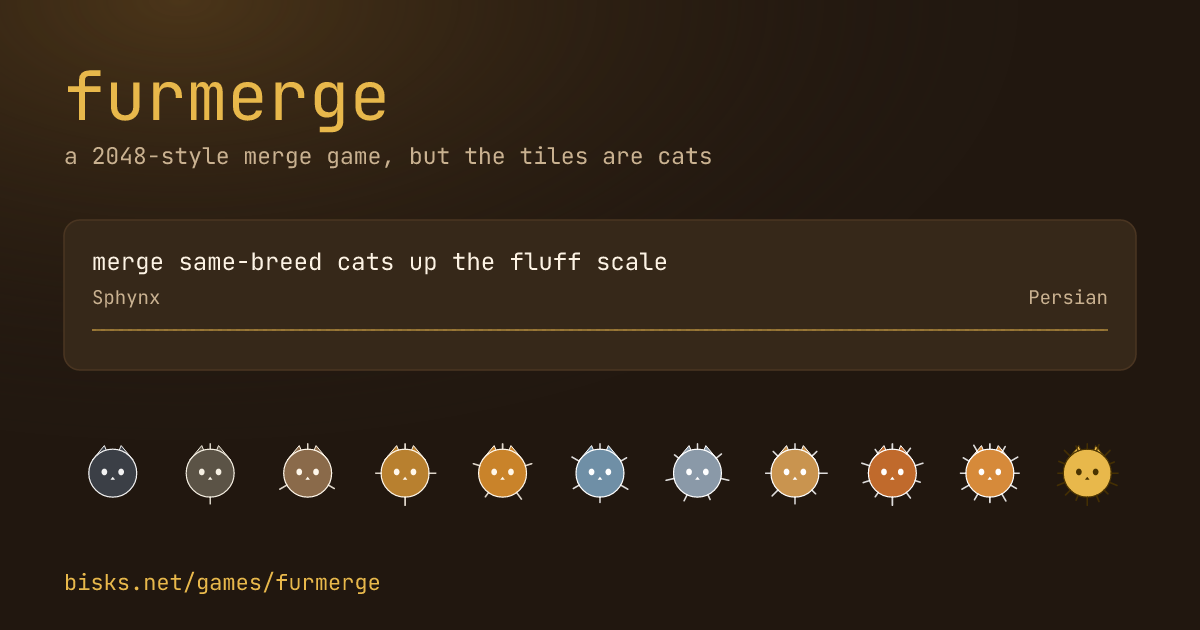
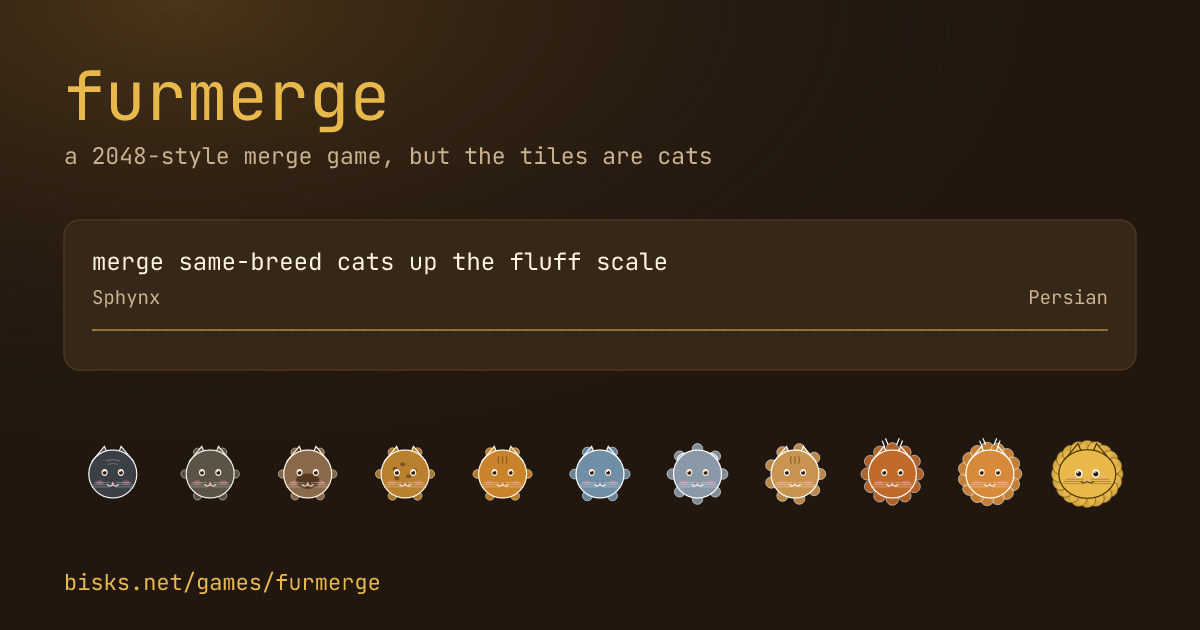
buildthis: games/furmerge (@brittanyellich.com)

diff --git a/sites/furmerge/public/game.js b/sites/furmerge/public/game.js
@@ -6,18 +6,21 @@ const MOUNT = "/games/furmerge";
 const SIZE = 4;
 
 // Least -> most fluffy. index 0 = value 2, index 10 = value 2048 (win tile).
+// earStyle: "point" | "fold" (Scottish Fold) | "lynx" (tufted ear tips)
+// pattern: null | "mask" (Siamese color points) | "spots" (Bengal rosettes)
+//          | "tabby" (forehead M stripes)
 const BREEDS = [
-  { name: "Sphynx", value: 2, bg: "#3b3f46", fg: "#f2f2f2", furTufts: 0, earFuzz: 0 },
-  { name: "Devon Rex", value: 4, bg: "#5b5346", fg: "#f5efe2", furTufts: 2, earFuzz: 0 },
-  { name: "Siamese", value: 8, bg: "#8a6a4a", fg: "#fff7ea", furTufts: 3, earFuzz: 1 },
-  { name: "Bengal", value: 16, bg: "#b8802f", fg: "#fff7ea", furTufts: 4, earFuzz: 1 },
-  { name: "Abyssinian", value: 32, bg: "#c9832a", fg: "#fff7ea", furTufts: 5, earFuzz: 2 },
-  { name: "British Shorthair", value: 64, bg: "#6f8fa6", fg: "#ffffff", furTufts: 6, earFuzz: 2 },
-  { name: "Scottish Fold", value: 128, bg: "#8a99a8", fg: "#ffffff", furTufts: 7, earFuzz: 3 },
-  { name: "American Shorthair", value: 256, bg: "#c9944f", fg: "#ffffff", furTufts: 8, earFuzz: 3 },
-  { name: "Maine Coon", value: 512, bg: "#c06a2c", fg: "#ffffff", furTufts: 10, earFuzz: 4 },
-  { name: "Norwegian Forest Cat", value: 1024, bg: "#d68a3a", fg: "#ffffff", furTufts: 12, earFuzz: 5 },
-  { name: "Persian", value: 2048, bg: "#e8b84b", fg: "#4a3300", furTufts: 16, earFuzz: 6 },
+  { name: "Sphynx", value: 2, bg: "#3b3f46", fg: "#f2f2f2", furTufts: 0, ruff: 0, earStyle: "point", pattern: null, wrinkles: true, flat: false },
+  { name: "Devon Rex", value: 4, bg: "#5b5346", fg: "#f5efe2", furTufts: 2, ruff: 1, earStyle: "point", pattern: null, wrinkles: false, flat: false },
+  { name: "Siamese", value: 8, bg: "#8a6a4a", fg: "#fff7ea", furTufts: 3, ruff: 1, earStyle: "point", pattern: "mask", wrinkles: false, flat: false },
+  { name: "Bengal", value: 16, bg: "#b8802f", fg: "#fff7ea", furTufts: 4, ruff: 2, earStyle: "point", pattern: "spots", wrinkles: false, flat: false },
+  { name: "Abyssinian", value: 32, bg: "#c9832a", fg: "#fff7ea", furTufts: 5, ruff: 2, earStyle: "point", pattern: "tabby", wrinkles: false, flat: false },
+  { name: "British Shorthair", value: 64, bg: "#6f8fa6", fg: "#ffffff", furTufts: 6, ruff: 4, earStyle: "point", pattern: null, wrinkles: false, flat: false },
+  { name: "Scottish Fold", value: 128, bg: "#8a99a8", fg: "#ffffff", furTufts: 7, ruff: 5, earStyle: "fold", pattern: null, wrinkles: false, flat: false },
+  { name: "American Shorthair", value: 256, bg: "#c9944f", fg: "#ffffff", furTufts: 8, ruff: 6, earStyle: "point", pattern: "tabby", wrinkles: false, flat: false },
+  { name: "Maine Coon", value: 512, bg: "#c06a2c", fg: "#ffffff", furTufts: 10, ruff: 8, earStyle: "lynx", pattern: null, wrinkles: false, flat: false },
+  { name: "Norwegian Forest Cat", value: 1024, bg: "#d68a3a", fg: "#ffffff", furTufts: 12, ruff: 10, earStyle: "lynx", pattern: null, wrinkles: false, flat: false },
+  { name: "Persian", value: 2048, bg: "#e8b84b", fg: "#4a3300", furTufts: 16, ruff: 13, earStyle: "point", pattern: null, wrinkles: false, flat: true },
 ];
 
 const WIN_TIER = BREEDS.length - 1;
@@ -42,44 +45,112 @@ function emptyBoard() {
   return Array.from({ length: SIZE }, () => Array(SIZE).fill(null));
 }
 
+// A cute, breed-distinct cat face as an inline SVG. Shared by the board
+// tiles, the legend, and the share card. See og-gen.mjs for a duplicate
+// (house style: copy, don't abstract) used when rasterizing the OG image.
+function catFaceMarkup(b, s) {
+  const cx = s / 2, cy = s / 2 + s * 0.05;
+  const r = b.flat ? s * 0.33 : s * 0.3;
+  const rx = b.flat ? r * 1.08 : r;
+  const ry = b.flat ? r * 0.92 : r;
+  const sw = (s * 0.015).toFixed(1);
+  const MARK = "#4a2f18";
+  const INK = "#2a1c10";
+
+  // Fluffy ruff: a scatter of little fur bumps behind the head, more of
+  // them (and bigger) the fluffier the breed is.
+  let ruff = "";
+  if (b.ruff > 0) {
+    const n = Math.max(6, Math.round(b.ruff * 1.5));
+    const bumpR = r * (0.16 + Math.min(b.ruff, 13) * 0.012);
+    for (let i = 0; i < n; i++) {
+      const a = (i / n) * Math.PI * 2;
+      const x = cx + Math.cos(a) * r * 1.05;
+      const y = cy + Math.sin(a) * r * 1.05 * (ry / r);
+      ruff += `<circle cx="${x.toFixed(1)}" cy="${y.toFixed(1)}" r="${bumpR.toFixed(1)}" fill="${b.bg}" stroke="${b.fg}" stroke-width="${(s * 0.008).toFixed(1)}" opacity="0.9"/>`;
+    }
+  }
+
+  // Ears: pointed, folded-forward (Scottish Fold), or tufted at the tip
+  // (Maine Coon / Norwegian Forest Cat "lynx tips").
+  const earFill = b.pattern === "mask" ? MARK : b.bg;
+  const ear = (side) => {
+    if (b.earStyle === "fold") {
+      const bx = cx + side * r * 0.58, by = cy - r * 0.68;
+      return `<ellipse cx="${bx.toFixed(1)}" cy="${by.toFixed(1)}" rx="${(r * 0.26).toFixed(1)}" ry="${(r * 0.17).toFixed(1)}" fill="${earFill}" stroke="${b.fg}" stroke-width="${sw}" transform="rotate(${side * 20} ${bx.toFixed(1)} ${by.toFixed(1)})"/>`;
+    }
+    const base = `<path d="M ${(cx + side * r * 0.85).toFixed(1)} ${(cy - r * 0.55).toFixed(1)} L ${(cx + side * r * 0.35).toFixed(1)} ${(cy - r * 1.15).toFixed(1)} L ${(cx + side * r * 0.1).toFixed(1)} ${(cy - r * 0.55).toFixed(1)} Z" fill="${earFill}" stroke="${b.fg}" stroke-width="${sw}"/>`;
+    const inner = `<path d="M ${(cx + side * r * 0.6).toFixed(1)} ${(cy - r * 0.62).toFixed(1)} L ${(cx + side * r * 0.35).toFixed(1)} ${(cy - r * 0.96).toFixed(1)} L ${(cx + side * r * 0.22).toFixed(1)} ${(cy - r * 0.62).toFixed(1)} Z" fill="${b.fg}" opacity="0.22"/>`;
+    let tips = "";
+    if (b.earStyle === "lynx") {
+      for (let i = 0; i < 2; i++) {
+        const tx = cx + side * r * (0.32 - i * 0.14);
+        const ty = cy - r * (1.13 + i * 0.1);
+        tips += `<line x1="${tx.toFixed(1)}" y1="${ty.toFixed(1)}" x2="${(tx + side * r * 0.1).toFixed(1)}" y2="${(ty - r * 0.24).toFixed(1)}" stroke="${b.fg}" stroke-width="${sw}" stroke-linecap="round"/>`;
+      }
+    }
+    return base + inner + tips;
+  };
+
+  // Breed markings, layered on top of the head fill.
+  let pattern = "";
+  if (b.pattern === "mask") {
+    pattern += `<ellipse cx="${cx.toFixed(1)}" cy="${(cy + r * 0.3).toFixed(1)}" rx="${(rx * 0.5).toFixed(1)}" ry="${(ry * 0.32).toFixed(1)}" fill="${MARK}" opacity="0.85"/>`;
+  } else if (b.pattern === "spots") {
+    const spots = [[-0.42, -0.22], [0.4, -0.15], [-0.1, -0.4], [0.15, 0.1], [-0.35, 0.18]];
+    spots.forEach(([dx, dy]) => {
+      pattern += `<ellipse cx="${(cx + rx * dx).toFixed(1)}" cy="${(cy + ry * dy).toFixed(1)}" rx="${(rx * 0.11).toFixed(1)}" ry="${(rx * 0.08).toFixed(1)}" fill="${MARK}" opacity="0.55"/>`;
+    });
+  } else if (b.pattern === "tabby") {
+    for (let i = -1; i <= 1; i++) {
+      const x = cx + i * rx * 0.16;
+      pattern += `<path d="M ${x.toFixed(1)} ${(cy - ry * 0.72).toFixed(1)} q ${(i * rx * 0.06).toFixed(1)} ${(ry * 0.14).toFixed(1)} 0 ${(ry * 0.28).toFixed(1)}" fill="none" stroke="${MARK}" stroke-width="${(s * 0.012).toFixed(1)}" opacity="0.6" stroke-linecap="round"/>`;
+    }
+  }
+
+  const wrinkles = b.wrinkles
+    ? `<path d="M ${(cx - rx * 0.3).toFixed(1)} ${(cy - ry * 0.55).toFixed(1)} q ${(rx * 0.3).toFixed(1)} ${(-ry * 0.1).toFixed(1)} ${(rx * 0.6).toFixed(1)} 0" fill="none" stroke="${b.fg}" stroke-width="${(s * 0.01).toFixed(1)}" opacity="0.4"/>
+       <path d="M ${(cx - rx * 0.22).toFixed(1)} ${(cy - ry * 0.4).toFixed(1)} q ${(rx * 0.22).toFixed(1)} ${(-ry * 0.08).toFixed(1)} ${(rx * 0.44).toFixed(1)} 0" fill="none" stroke="${b.fg}" stroke-width="${(s * 0.01).toFixed(1)}" opacity="0.3"/>`
+    : "";
+
+  const eyeDx = b.flat ? 0.3 : 0.34;
+  const eyeY = cy - ry * (b.flat ? 0.02 : 0.06);
+  const eyeR = r * (b.flat ? 0.15 : 0.13);
+  const eye = (dx) => {
+    const ex = cx + rx * dx;
+    return `<ellipse cx="${ex.toFixed(1)}" cy="${eyeY.toFixed(1)}" rx="${eyeR.toFixed(1)}" ry="${(eyeR * 1.15).toFixed(1)}" fill="#fbeee0"/>
+      <circle cx="${ex.toFixed(1)}" cy="${(eyeY + eyeR * 0.1).toFixed(1)}" r="${(eyeR * 0.62).toFixed(1)}" fill="${INK}"/>
+      <circle cx="${(ex - eyeR * 0.22).toFixed(1)}" cy="${(eyeY - eyeR * 0.28).toFixed(1)}" r="${(eyeR * 0.2).toFixed(1)}" fill="#ffffff" opacity="0.9"/>`;
+  };
+
+  const muzzleY = cy + ry * (b.flat ? 0.28 : 0.42);
+  const blush = `<ellipse cx="${(cx - rx * 0.55).toFixed(1)}" cy="${(muzzleY - ry * 0.06).toFixed(1)}" rx="${(rx * 0.16).toFixed(1)}" ry="${(rx * 0.1).toFixed(1)}" fill="#ff8fa3" opacity="0.3"/>
+    <ellipse cx="${(cx + rx * 0.55).toFixed(1)}" cy="${(muzzleY - ry * 0.06).toFixed(1)}" rx="${(rx * 0.16).toFixed(1)}" ry="${(rx * 0.1).toFixed(1)}" fill="#ff8fa3" opacity="0.3"/>`;
+
+  const nose = `<path d="M ${cx.toFixed(1)} ${(muzzleY - ry * 0.1).toFixed(1)} L ${(cx - rx * 0.08).toFixed(1)} ${(muzzleY + ry * 0.02).toFixed(1)} L ${(cx + rx * 0.08).toFixed(1)} ${(muzzleY + ry * 0.02).toFixed(1)} Z" fill="#f2a3b3"/>`;
+  const mouth = `<path d="M ${cx.toFixed(1)} ${(muzzleY + ry * 0.03).toFixed(1)} q ${(-rx * 0.12).toFixed(1)} ${(ry * 0.12).toFixed(1)} ${(-rx * 0.22).toFixed(1)} 0 M ${cx.toFixed(1)} ${(muzzleY + ry * 0.03).toFixed(1)} q ${(rx * 0.12).toFixed(1)} ${(ry * 0.12).toFixed(1)} ${(rx * 0.22).toFixed(1)} 0" fill="none" stroke="${b.fg}" stroke-width="${(s * 0.015).toFixed(1)}" stroke-linecap="round" opacity="0.85"/>`;
+
+  let whiskers = "";
+  [-1, 1].forEach((side) => {
+    for (let i = 0; i < 3; i++) {
+      const y = muzzleY - ry * 0.06 + i * ry * 0.09;
+      const x1 = cx + side * rx * 0.14;
+      const x2 = cx + side * rx * (0.75 + i * 0.06);
+      whiskers += `<line x1="${x1.toFixed(1)}" y1="${y.toFixed(1)}" x2="${x2.toFixed(1)}" y2="${(y + side * 0 + (i - 1) * ry * 0.03).toFixed(1)}" stroke="${b.fg}" stroke-width="${(s * 0.008).toFixed(1)}" opacity="0.55" stroke-linecap="round"/>`;
+    }
+  });
+
+  const head = b.flat
+    ? `<ellipse cx="${cx.toFixed(1)}" cy="${cy.toFixed(1)}" rx="${rx.toFixed(1)}" ry="${ry.toFixed(1)}" fill="${b.bg}" stroke="${b.fg}" stroke-width="${sw}"/>`
+    : `<circle cx="${cx.toFixed(1)}" cy="${cy.toFixed(1)}" r="${r.toFixed(1)}" fill="${b.bg}" stroke="${b.fg}" stroke-width="${sw}"/>`;
+
+  return `${ruff}${ear(-1)}${ear(1)}${head}${pattern}${wrinkles}${blush}${eye(-eyeDx)}${eye(eyeDx)}${nose}${mouth}${whiskers}`;
+}
+
 function catFaceSVG(tier, sizePx) {
   const b = BREEDS[tier];
   const s = sizePx;
-  const cx = s / 2, cy = s / 2 + s * 0.04;
-  const r = s * 0.3;
-  let tufts = "";
-  for (let i = 0; i < b.furTufts; i++) {
-    const a = (i / b.furTufts) * Math.PI * 2 - Math.PI / 2;
-    const len = r * (0.22 + (i % 3) * 0.06);
-    const x1 = cx + Math.cos(a) * r;
-    const y1 = cy + Math.sin(a) * r;
-    const x2 = cx + Math.cos(a) * (r + len);
-    const y2 = cy + Math.sin(a) * (r + len);
-    tufts += `<line x1="${x1.toFixed(1)}" y1="${y1.toFixed(1)}" x2="${x2.toFixed(1)}" y2="${y2.toFixed(1)}" stroke="${b.fg}" stroke-width="${(s * 0.02).toFixed(1)}" stroke-linecap="round" opacity="0.85"/>`;
-  }
-  const earFuzzPx = b.earFuzz;
-  let earFuzzMarks = (side) => {
-    let out = "";
-    const bx = side < 0 ? cx - r * 0.62 : cx + r * 0.62;
-    const by = cy - r * 0.78;
-    for (let i = 0; i < earFuzzPx; i++) {
-      const ox = (i - earFuzzPx / 2) * s * 0.02;
-      out += `<line x1="${(bx + ox).toFixed(1)}" y1="${by.toFixed(1)}" x2="${(bx + ox + side * s * 0.02).toFixed(1)}" y2="${(by - s * 0.05).toFixed(1)}" stroke="${b.fg}" stroke-width="${(s * 0.015).toFixed(1)}" stroke-linecap="round" opacity="0.7"/>`;
-    }
-    return out;
-  };
-  const earL = `<path d="M ${cx - r * 0.85} ${cy - r * 0.55} L ${cx - r * 0.35} ${cy - r * 1.15} L ${cx - r * 0.1} ${cy - r * 0.55} Z" fill="${b.bg}" stroke="${b.fg}" stroke-width="${(s * 0.012).toFixed(1)}"/>`;
-  const earR = `<path d="M ${cx + r * 0.85} ${cy - r * 0.55} L ${cx + r * 0.35} ${cy - r * 1.15} L ${cx + r * 0.1} ${cy - r * 0.55} Z" fill="${b.bg}" stroke="${b.fg}" stroke-width="${(s * 0.012).toFixed(1)}"/>`;
-  const eyeY = cy - r * 0.05;
-  return `<svg viewBox="0 0 ${s} ${s}" width="${s}" height="${s}" xmlns="http://www.w3.org/2000/svg">
-    ${earL}${earR}
-    ${earFuzzMarks(-1)}${earFuzzMarks(1)}
-    <circle cx="${cx}" cy="${cy}" r="${r}" fill="${b.bg}" stroke="${b.fg}" stroke-width="${(s * 0.015).toFixed(1)}"/>
-    ${tufts}
-    <ellipse cx="${cx - r * 0.35}" cy="${eyeY}" rx="${r * 0.12}" ry="${r * 0.14}" fill="${b.fg}"/>
-    <ellipse cx="${cx + r * 0.35}" cy="${eyeY}" rx="${r * 0.12}" ry="${r * 0.14}" fill="${b.fg}"/>
-    <path d="M ${cx} ${cy + r * 0.15} L ${cx - r * 0.1} ${cy + r * 0.28} L ${cx + r * 0.1} ${cy + r * 0.28} Z" fill="${b.fg}"/>
-  </svg>`;
+  return `<svg viewBox="0 0 ${s} ${s}" width="${s}" height="${s}" xmlns="http://www.w3.org/2000/svg">${catFaceMarkup(b, s)}</svg>`;
 }
 
 function loadBest() {
@@ -123,7 +194,7 @@ function render() {
         cell.classList.add("filled");
         cell.style.background = b.bg;
         cell.style.color = b.fg;
-        cell.innerHTML = `<div class="cell-face">${catFaceSVG(tier, 56)}</div><div class="cell-label">${b.name}</div>`;
+        cell.innerHTML = `<div class="cell-face">${catFaceSVG(tier, 88)}</div><div class="cell-label">${b.name}</div>`;
       }
       boardEl.appendChild(cell);
     }
@@ -380,7 +451,7 @@ const legendEl = document.getElementById("legend");
 BREEDS.forEach((b, i) => {
   const item = document.createElement("div");
   item.className = "legend-item";
-  item.innerHTML = `<div class="legend-face" style="background:${b.bg}">${catFaceSVG(i, 28)}</div><span>${b.name}</span>`;
+  item.innerHTML = `<div class="legend-face" style="background:${b.bg}">${catFaceSVG(i, 40)}</div><span>${b.name}</span>`;
   legendEl.appendChild(item);
 });
 

diff --git a/sites/furmerge/public/index.html b/sites/furmerge/public/index.html
@@ -98,15 +98,16 @@
     to { transform: scale(1); opacity: 1; }
   }
   .cell-face { line-height: 0; }
-  .cell-face svg { width: 56%; height: auto; max-width: 44px; }
+  .cell-face svg { width: 78%; height: auto; max-width: 72px; }
   .cell-label {
-    font-size: 0.5rem;
+    font-size: 0.44rem;
     font-weight: 700;
     text-align: center;
     line-height: 1.05;
-    margin-top: 2px;
+    margin-top: 1px;
     padding: 0 3px;
     letter-spacing: -0.01em;
+    opacity: 0.85;
   }
 
   .controls-hint {
@@ -166,12 +167,12 @@
     font-size: 0.78rem;
   }
   .legend-face {
-    width: 30px; height: 30px;
-    border-radius: 7px;
+    width: 42px; height: 42px;
+    border-radius: 9px;
     display: flex; align-items: center; justify-content: center;
     flex-shrink: 0;
   }
-  .legend-face svg { width: 22px; height: 22px; }
+  .legend-face svg { width: 34px; height: 34px; }
 
   #overlay {
     position: fixed;
